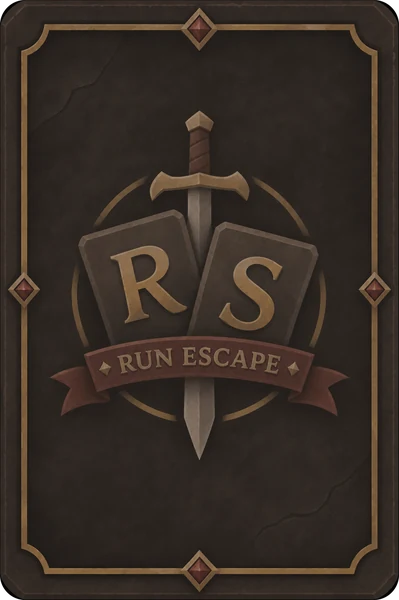
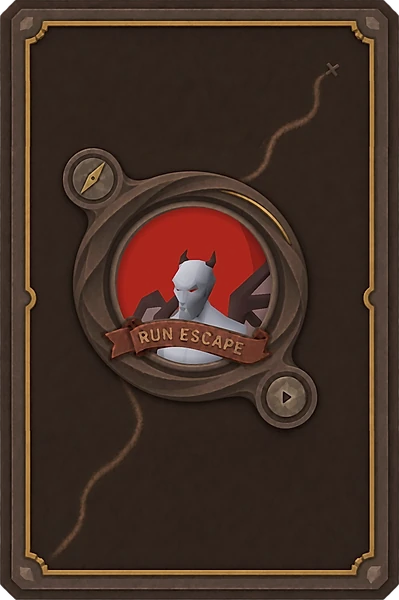
Cards: the game's card backs are the vampire back
Made from src/media/run-escape-card-back-vampire.png by scripts/cards/ui-backs.ts, at the same
399 x 600 and 226 x 340 sizes: two plain bands of the background stretch to fit, so the frame,
medallion and banner keep their shape, and the paper grain is smoothed before shrinking.

diff --git a/scripts/cards/ui-backs.ts b/scripts/cards/ui-backs.ts
@@ -1,0 +1,87 @@
+// Makes the game's card backs (src/game/ui/cards/card-back-*.webp) from the generator's full-size
+// back, src/media/run-escape-card-back-vampire.png:
+//
+//   bun run tsx scripts/cards/ui-backs.ts
+//
+// The UI's backs are taller for their width than the printed card, so two plain bands of its
+// background (above the compass and below the play button) are stretched to make up the height,
+// and the frame, medallion, banner and corners keep their shape. The print's paper grain is
+// smoothed first: shrunk to a few hundred pixels, it only shows as noise.
+import path from "node:path";
+import { fileURLToPath } from "node:url";
+import sharp from "sharp";
+
+const root = path.resolve(path.dirname(fileURLToPath(import.meta.url)), "../..");
+const source = path.join(root, "src/media/run-escape-card-back-vampire.png");
+const out = path.join(root, "src/game/ui/cards");
+
+// The card inside the PNG's transparent margin
+const CARD = { left: 27, top: 19, width: 1018, height: 1410 };
+// Rows of plain background (in the PNG's own pixels) that can stretch without showing it
+const BANDS: [number, number][] = [
+    [225, 350],
+    [1075, 1300],
+];
+const SIZES = [
+    { name: "card-back-large.webp", width: 399, height: 600 },
+    { name: "card-back-small.webp", width: 226, height: 340 },
+];
+
+async function stretchToAspect(png: Buffer, aspect: number): Promise<Buffer> {
+    const height = Math.round(CARD.width / aspect);
+    const extra = height - CARD.height;
+    const bandTotal = BANDS.reduce((sum, [a, b]) => sum + b - a, 0);
+    // Strips top to bottom: the fixed rows between bands as they are, each band stretched by its share
+    const strips: { top: number; height: number; to: number }[] = [];
+    let y = CARD.top;
+    let given = 0;
+    BANDS.forEach(([a, b], i) => {
+        strips.push({ top: y, height: a - y, to: a - y });
+        const share =
+            i === BANDS.length - 1 ? extra - given : Math.round((extra * (b - a)) / bandTotal);
+        given += share;
+        strips.push({ top: a, height: b - a, to: b - a + share });
+        y = b;
+    });
+    strips.push({ top: y, height: CARD.top + CARD.height - y, to: CARD.top + CARD.height - y });
+
+    const parts = await Promise.all(
+        strips.map(({ top, height: h, to }) =>
+            sharp(png)
+                .extract({ left: CARD.left, top, width: CARD.width, height: h })
+                .resize(CARD.width, to, { fit: "fill", kernel: "lanczos3" })
+                .png()
+                .toBuffer(),
+        ),
+    );
+    let at = 0;
+    return sharp({
+        create: { width: CARD.width, height, channels: 4, background: "#00000000" },
+    })
+        .composite(
+            parts.map((input, i) => {
+                const layer = { input, left: 0, top: at };
+                at += strips[i].to;
+                return layer;
+            }),
+        )
+        .png()
+        .toBuffer();
+}
+
+async function main(): Promise<void> {
+    // A light median takes the grain out of the paper and leaves the edges and lettering sharp
+    const smooth = await sharp(source).median(5).png().toBuffer();
+    for (const { name, width, height } of SIZES) {
+        const card = await stretchToAspect(smooth, width / height);
+        await sharp(card)
+            .resize(width, height, { fit: "fill", kernel: "lanczos3" })
+            // Shrinking softens the banner's lettering; a little sharpening brings it back
+            .sharpen({ sigma: width < 300 ? 0.6 : 0.8 })
+            .webp({ quality: 90, alphaQuality: 100, effort: 6 })
+            .toFile(path.join(out, name));
+        console.log(`${name}: ${width} × ${height}`);
+    }
+}
+
+await main();

diff --git a/docs/DEVELOPMENT.md b/docs/DEVELOPMENT.md
@@ -1586,15 +1586,16 @@ involved.
   fill transparent). A name ending in brackets ("Sanguinesti staff (uncharged)") puts them on a
   smaller line under it, the rest on one line a size smaller (`ui-tcg-name-main`). The picture is
   the item drawn from its model at the card's size (`ItemIcon`'s `large`). A face-down card is a
-  picture (`ui/cards/card-back-*.webp`, the large one where it's shown big), kept to its shape. A
-  pack opens on a playmat that fills the screen (`PackWindow`): its cards in a deck, each press
-  dealing the top one face up into the row with a turn (none with `prefers-reduced-motion`); the
-  row is scaled to the mat's own room (`matLayout`, measured, as the UI can be drawn bigger than
-  the window), not below a size its words can be read at where the height allows, and overlaps the
-  cards where it's still too wide. The mat's slots, dealt cards and deck are a small card's size,
-  as `MAT_ROW_HEIGHT` is, so they change with `.ui-tcg-small`; its faces and backs use the large
-  pictures (`large` on `CardFace` and `CardBack`), as the mat draws them up to 2.4 times their
-  size. A dealt card pressed shows big in the same window.
+  picture (`ui/cards/card-back-*.webp`, the large one where it's shown big, made from the
+  generator's `src/media/run-escape-card-back-vampire.png` by `scripts/cards/ui-backs.ts`), kept to
+  its shape. A pack opens on a playmat that fills the screen (`PackWindow`): its cards in a deck,
+  each press dealing the top one face up into the row with a turn (none with
+  `prefers-reduced-motion`); the row is scaled to the mat's own room (`matLayout`, measured, as the
+  UI can be drawn bigger than the window), not below a size its words can be read at where the
+  height allows, and overlaps the cards where it's still too wide. The mat's slots, dealt cards and
+  deck are a small card's size, as `MAT_ROW_HEIGHT` is, so they change with `.ui-tcg-small`; its
+  faces and backs use the large pictures (`large` on `CardFace` and `CardBack`), as the mat draws
+  them up to 2.4 times their size. A dealt card pressed shows big in the same window.
 - **A pack's preview** (`ui/PackPreview.tsx`, `core/cardOdds.ts`): the shop's Preview lists every
   card a pack can hold on tabs by rarity (and All, each with its count, the last one kept per pack
   for the session), each card with its chance to be in one pack for this save, or Locked with

diff --git a/scripts/cards/README.md b/scripts/cards/README.md
@@ -53,3 +53,5 @@ console.log(face.footer); // its number in the game's set, 267/303 when written
 Use `--preview` or `await cards.renderFoilPreview({ itemId: 2415 })` for a looping WebP. Its warm gold reflection travels across the item window, with small glints at the brightest angle. The CLI also saves the full-size foil PNG.
 
 `createCardGenerator({ cacheDir, backPath })` accepts an alternative cache root containing `caches.json` and an alternative full-size back PNG. By default the generator resolves the project's own cache and assets relative to the library.
+
+The game's own card backs, `src/game/ui/cards/card-back-large.webp` and `card-back-small.webp`, are made from the vampire back by `bun run tsx scripts/cards/ui-backs.ts`. They keep their 399 × 600 and 226 × 340 sizes: two plain bands of the background are stretched to fit, and the paper grain is smoothed. Run it again after changing the back.

diff --git a/CHANGELOG.md b/CHANGELOG.md
@@ -3,6 +3,12 @@
 What's changed in Run Escape, newest first. The game shows this on its title screen too (click
 the version in the corner).
 
+## Unreleased
+
+### Changed
+
+- Face-down cards show the new vampire card back, with less grain.
+
 ## 0.33.2 - 2026-11-15
 
 ### Changed
